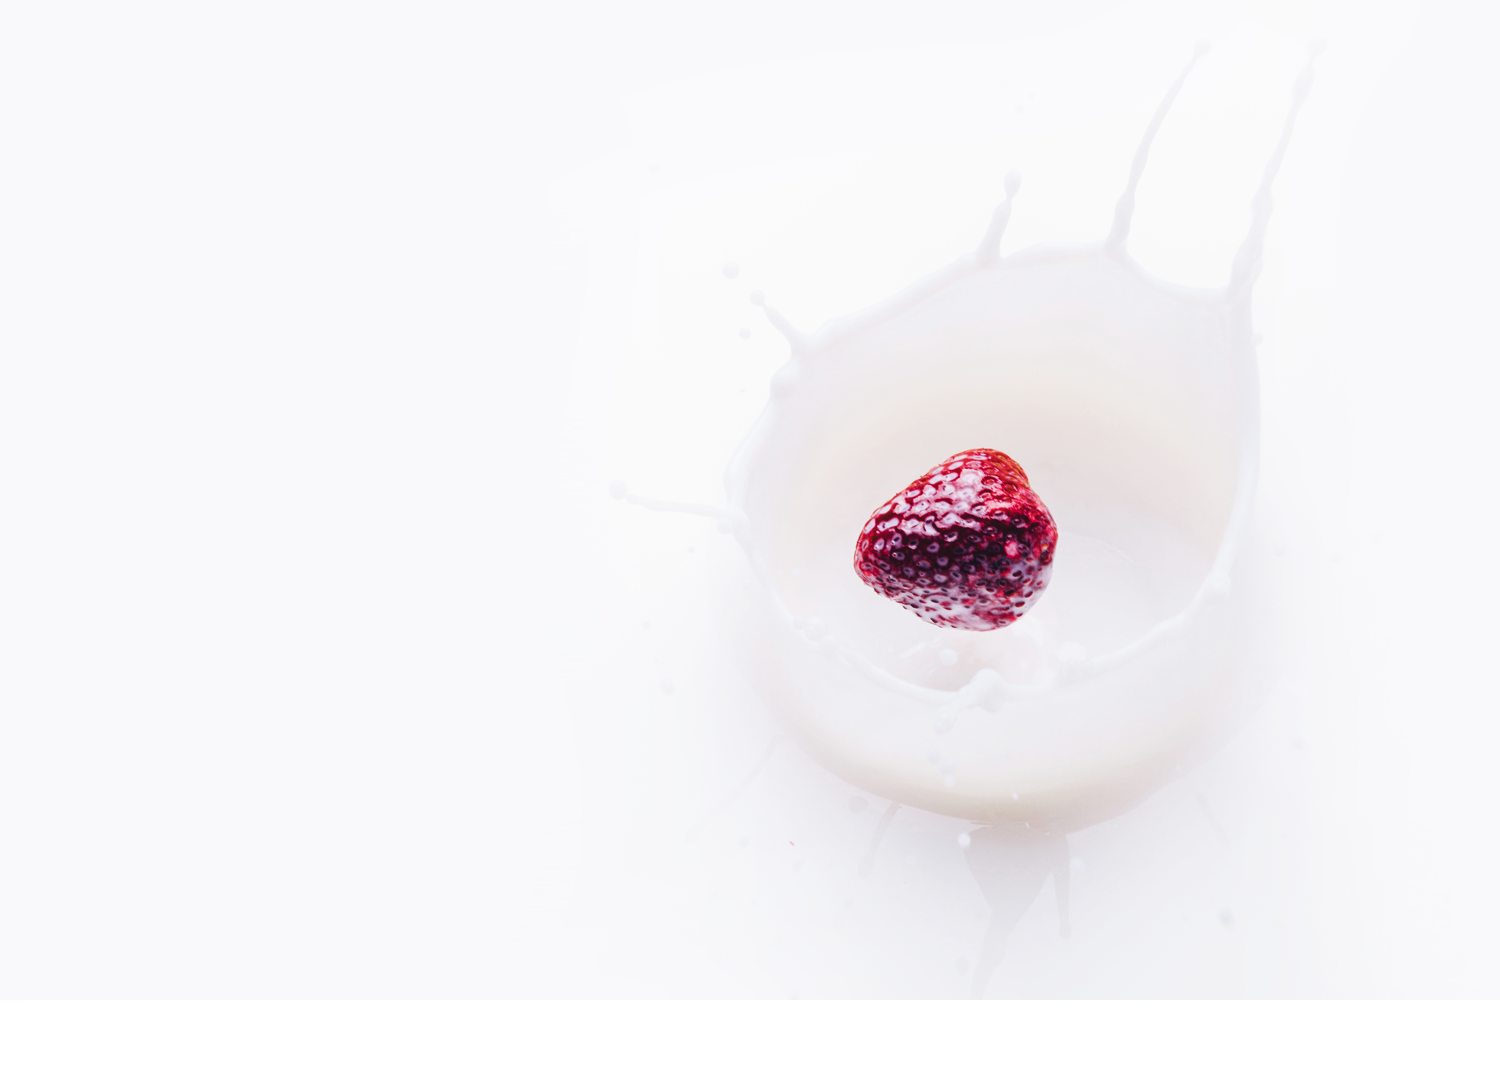
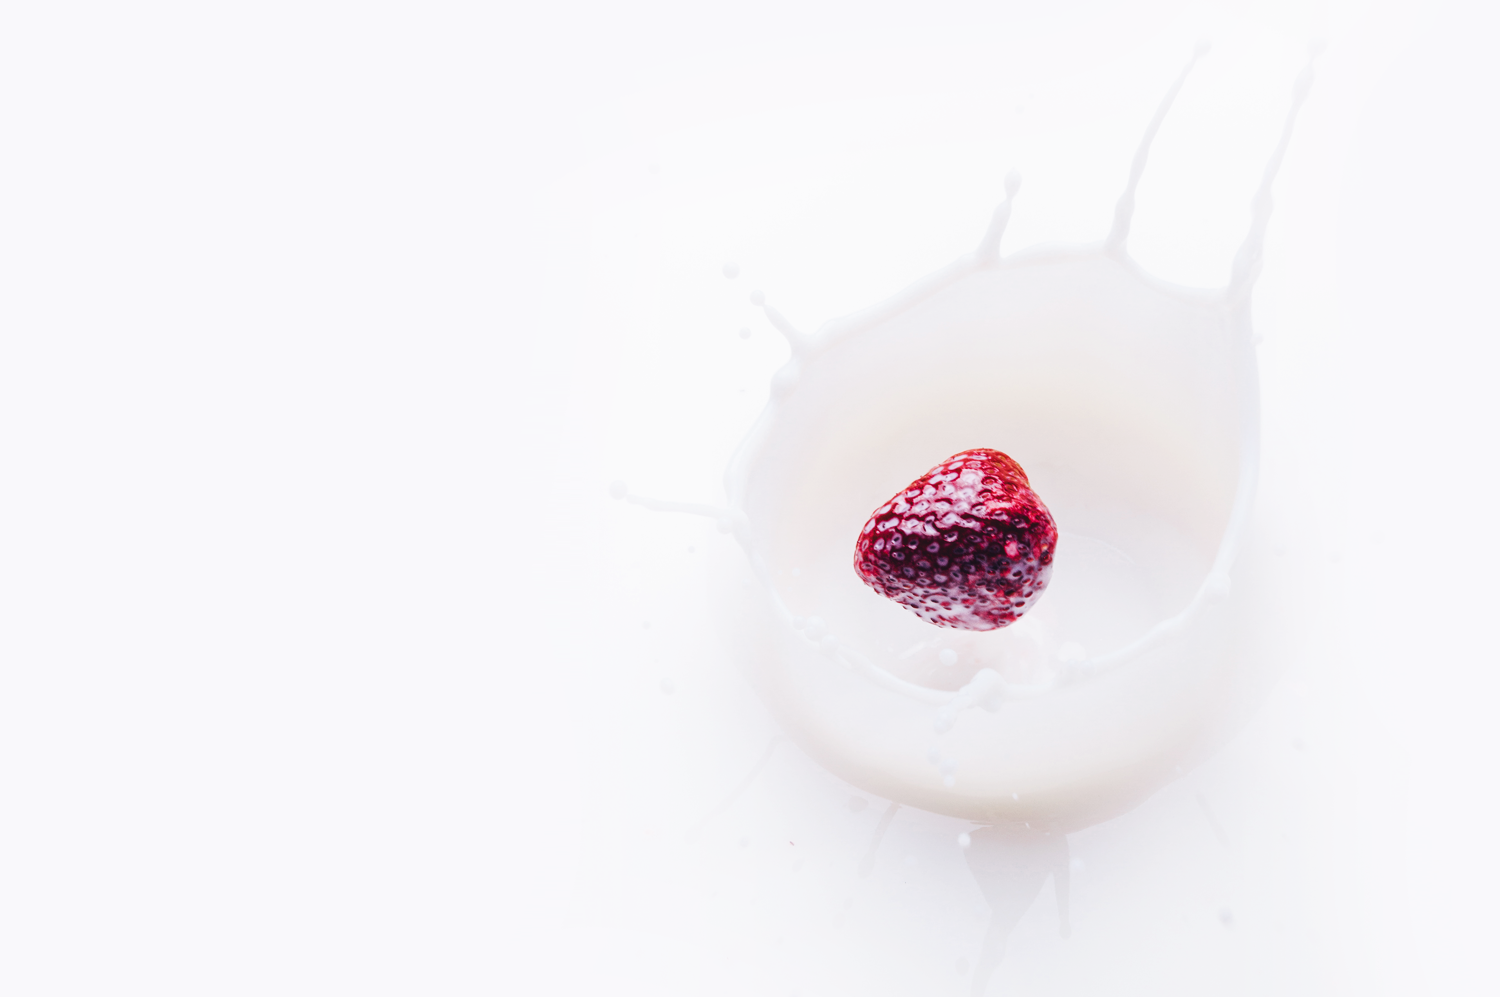
changes based on comments

Changed region(s): [[0.552, 0.4042, 0.7053, 0.653], [0.5827, 0.7151, 0.7667, 0.8706], [0.644, 0.9017, 0.6747, 0.9328]]

diff --git a/students/EugeneHryb/23_11_HomeWork/cahee/css/style.css b/students/EugeneHryb/23_11_HomeWork/cahee/css/style.css
@@ -1,2 +1,2 @@
-@font-face{font-family:"Pacifico";font-style:normal;font-weight:400;src:url("../fonts/pacifico-v17-latin-regular.woff2") format("woff2"),url("../fonts/pacifico-v17-latin-regular.woff") format("woff")}@font-face{font-family:"Raleway";font-style:normal;font-weight:300;src:url("../fonts/raleway-v18-latin-300.woff2") format("woff2"),url("../fonts/raleway-v18-latin-300.woff") format("woff")}@font-face{font-family:"Raleway";font-style:normal;font-weight:700;src:url("../fonts/raleway-v18-latin-700.woff2") format("woff2"),url("../fonts/raleway-v18-latin-700.woff") format("woff")}@font-face{font-family:"Raleway";font-style:normal;font-weight:900;src:url("../fonts/raleway-v18-latin-900.woff2") format("woff2"),url("../fonts/raleway-v18-latin-900.woff") format("woff")}.container{max-width:1500px;box-sizing:border-box;padding:22px 160px 71px 160px}.container_centr{margin:0 auto}.container_bg-img1{background-image:url("../img/1.png");background-repeat:none;background-size:cover}.container_bg-blue{background-color:#00c4c4}.header{display:flex;margin:0;padding:0;align-items:center}.header__logo{flex-grow:1}.menu{display:flex;padding:0;margin:0;justify-content:space-around;align-items:center}.menu__item{text-align:center;list-style-type:none;font-family:"Raleway";font-size:16px;font-weight:700;padding:0 15px;color:#262626;text-transform:uppercase;position:relative;margin:0}.menu__item:hover:before{content:"";border-top:solid 3px #ff6033;position:absolute;width:calc(100% - 30px);top:0;left:15px}.menu__link{padding:9px 0;display:block;text-decoration:none}.logo__link{text-decoration:none}.logo_title{font-family:"Pacifico";font-weight:400;font-size:50px;color:#262626;margin:0;padding:0}.miniArticle{font-family:"Raleway",Arial,Helvetica,sans-serif;font-weight:300;font-size:17px;line-height:1.588235;padding:0;margin:0;display:flex;align-items:center}.miniArticle__title-heavy{padding:0;font-family:"Raleway",Arial,Helvetica,sans-serif;font-weight:900;font-size:60px;margin:0 0 5px 0}.miniArticle__title-bold{padding:0;font-family:"Raleway",Arial,Helvetica,sans-serif;font-weight:700;font-size:90px;margin:0 0 5px 0}.miniArticle__text{margin:0 0 31px 0}.miniArticle__img{flex-grow:1}.miniArticle_color-black{color:#262626}.miniArticle_color-white{color:white}.miniArticle_high{min-height:770px}.miniArticle_high-flex{padding-top:15px}.miniArticle_small{max-width:370px}.miniArticle_normal{max-width:500px}.miniArticle_right{justify-content:flex-end}.button{height:55px;width:200px;border-color:transparent;box-shadow:0 0 10px 10px;transition:transform 0.3s ease}.button:hover{transform:scale(1.02)}.button:active{transform:scale(0.97)}.button:active,.button:focus{outline:none}.button__text{font-family:"Raleway",Arial,Helvetica,sans-serif;font-size:20px;font-weight:300;text-align:center;text-transform:uppercase}.button_orange{background-color:#ff6033;color:white}.icon{display:flex}.icon_small{height:40px}.icon_centr{justify-content:center}
+@font-face{font-family:"Pacifico";font-style:normal;font-weight:400;src:url("../fonts/pacifico-v17-latin-regular.woff2") format("woff2"),url("../fonts/pacifico-v17-latin-regular.woff") format("woff")}@font-face{font-family:"Raleway";font-style:normal;font-weight:300;src:url("../fonts/raleway-v18-latin-300.woff2") format("woff2"),url("../fonts/raleway-v18-latin-300.woff") format("woff")}@font-face{font-family:"Raleway";font-style:normal;font-weight:700;src:url("../fonts/raleway-v18-latin-700.woff2") format("woff2"),url("../fonts/raleway-v18-latin-700.woff") format("woff")}@font-face{font-family:"Raleway";font-style:normal;font-weight:900;src:url("../fonts/raleway-v18-latin-900.woff2") format("woff2"),url("../fonts/raleway-v18-latin-900.woff") format("woff")}.container{max-width:1500px;box-sizing:border-box;padding:22px 160px 71px 160px}.container_centr{margin:0 auto}.container_bg-img1{background-image:url("../img/1.png");background-repeat:none;background-position:center;background-size:cover}.container_bg-blue{background-color:#00c4c4}.container_first_content{margin:-120px auto 0 auto;padding-top:142px;height:100vh;max-height:1400px;z-index:1}.container_first_content .container__content{height:100%}.container__heder{padding-bottom:0;height:120px}.container__content{display:flex;align-items:center}.container_conten-right{justify-content:flex-end}.container_bottom-fix{position:absolute;bottom:10px;left:50%;transform:translateX(-50%)}.header{display:flex;margin:0;padding:0;align-items:center;z-index:10}.header__logo{flex-grow:1}.menu{display:flex;padding:0;margin:0;justify-content:space-around;align-items:center}.menu__item{text-align:center;list-style-type:none;font-family:"Raleway",Arial,Helvetica,sans-serif;font-size:16px;font-weight:700;padding:0 15px;color:#262626;text-transform:uppercase;position:relative;margin:0}.menu__item:hover:before{content:"";border-top:solid 3px #ff6033;position:absolute;width:calc(100% - 30px);top:0;left:15px}.menu__link{padding:9px 0;display:block;text-decoration:none}.logo__link{text-decoration:none}.logo_title{font-family:"Pacifico",Arial,Helvetica,sans-serif;font-weight:400;font-size:50px;color:#262626;margin:0;padding:0}.miniArticle{font-family:"Raleway",Arial,Helvetica,sans-serif;font-weight:300;font-size:17px;line-height:1.588235;padding:0;margin:0}.miniArticle__title-heavy{padding:0;font-family:"Raleway",Arial,Helvetica,sans-serif;font-weight:900;font-size:60px;margin:0 0 5px 0}.miniArticle__title-bold{padding:0;font-family:"Raleway",Arial,Helvetica,sans-serif;font-weight:700;font-size:90px;margin:0 0 5px 0}.miniArticle__text{margin:0 0 31px 0}.miniArticle__img{flex-grow:1}.miniArticle_color-black{color:#262626}.miniArticle_color-white{color:white}.miniArticle_high{min-height:770px}.miniArticle_high-flex{padding-top:15px}.miniArticle_small{max-width:370px}.miniArticle_normal{max-width:500px}.button{height:55px;width:200px;border-color:transparent;box-shadow:-2px 7px 24px -5px;transition:transform 0.3s ease;position:relative}.button:hover{transform:scale(1.02)}.button:active{transform:scale(0.97)}.button:active,.button:focus{outline:none}.button__text{font-family:"Raleway",Arial,Helvetica,sans-serif;font-size:20px;font-weight:300;text-align:center;text-transform:uppercase}.button__link{text-decoration:none;height:100%;width:100%}.button_orange{background-color:#ff6033}.button_orange .button__text{color:white}.button_content-center{display:flex;justify-content:center;align-items:center}.icon{display:flex}.icon_small{height:40px}.icon_centr{justify-content:center}
 /*# sourceMappingURL=style.css.map */

diff --git a/students/EugeneHryb/23_11_HomeWork/cahee/cahee.html b/students/EugeneHryb/23_11_HomeWork/cahee/cahee.html
@@ -7,7 +7,7 @@
     <title>Cahee</title>
 </head>
 <body>
-    <div class="container container_centr container_bg-img1">
+    <div class="container container_centr container__heder">
         <header class="header">
             <div class="logo header__logo">
                 <a href="#" class="logo__link">
@@ -35,26 +35,30 @@
                 </li>
             </ul>
         </header>
-        <section class="miniArticle miniArticle_left miniArticle_high">
-            <div class="miniArticle__wrapp miniArticle_small">
+    </div>
+    <div class="container container_bg-img1 container_first_content">
+        <div class="container__content container_content-left">
+            <section class="miniArticle miniArticle_small">
                 <h2 class="miniArticle__title-heavy miniArticle_color-black">Fresh Life</h2>
                 <p class="miniArticle__text miniArticle_color-black">Sed do eiusmod tempor incididunt ut labore et dolore magna aliqua. Ut enim ad minim veniam, quis nostrud exercitation ullamco.</p>
-                <button class="button button_orange" name="getFreeNow" value="true">
-                    <span class="button__text">Get free now</span>
-                </button>
-            </div>
-        </section>
-        <div class="icon icon_centr">
-            <img src="./img/scroll.png" alt="Scroll" class="icon__img icon_small">
+                <div class="button button_orange ">
+                    <a href="#" class="button__link button_content-center">
+                        <span class="button__text ">Get free now</span>
+                    </a>
+                </div>
+            </section>
+        </div>
+        <div class="icon icon_centr container_bottom-fix">
+            <a class="icon__link" href="#about_us"><img src="./img/scroll.png" alt="Scroll" class="icon__img icon_small"></a>
         </div>
     </div>
     <div class="container container_centr container_bg-blue">
-        <section class="miniArticle miniArticle_right miniArticle_high-flex">
+        <section class="container__content container_conten-right miniArticle_high-flex">
             <div class="miniArticle__img">
-                <img src="./img/img.png" alt="img" >
+                <img src="./img/img.png" alt="About Us" >
             </div>
-            <div class="miniArticle__wrapp miniArticle_normal ">
-                <h2 class="miniArticle__title-bold miniArticle_color-white">About Us</h2>
+            <div class="miniArticle miniArticle_normal ">
+                <h2 class="miniArticle__title-bold miniArticle_color-white" id="about_us">About Us</h2>
                 <p class="miniArticle__text miniArticle_color-white">Abore Cahee magna aliqua. Ut enim ad minim veniam, quis nostrud exercitation ullamco laboris nisi ut aliquip ex ea commodo consequat. Duis aute irure dolor in reprehenderit in voluptate velit esse cillum.</p>
                 <p class="miniArticle__text miniArticle_color-white">Nim id est laborum. Sed ut perspiciatis unde omnis iste natus error sit voluptatem accusantium doloremque laudantium, totam rem aperiam, eaque ipsa quae ab illo inventore.</p>
             </div>

diff --git a/students/EugeneHryb/23_11_HomeWork/cahee/crs/_miniArticle.scss b/students/EugeneHryb/23_11_HomeWork/cahee/crs/_miniArticle.scss
@@ -1,51 +1,56 @@
-.miniArticle{
+.miniArticle {
     font-family: $defaultFont;
     font-weight: 300;
     font-size: 17px;
     line-height: 1.588235;
     padding: 0;
     margin: 0;
-    display: flex;
-    align-items: center;
-    &__title-heavy{
+
+    &__title-heavy {
         padding: 0;
         font-family: $defaultFont;
         font-weight: 900;
         font-size: 60px;
         margin: 0 0 5px 0;
     }
-    &__title-bold{
+
+    &__title-bold {
         padding: 0;
         font-family: $defaultFont;
         font-weight: 700;
         font-size: 90px;
         margin: 0 0 5px 0;
     }
-    &__text{
+
+    &__text {
         margin: 0 0 31px 0;
     }
-    &__img{
+
+    &__img {
         flex-grow: 1;
     }
-    &_color-black{
+
+    &_color-black {
         color: $colorTextBlack;
     }
-    &_color-white{
+
+    &_color-white {
         color: $colorTextWhite;
     }
-    &_high{
+
+    &_high {
         min-height: 770px;
     }
-    &_high-flex{
+
+    &_high-flex {
         padding-top: 15px;
     }
-    &_small{
+
+    &_small {
         max-width: 370px;
     }
-    &_normal{
+
+    &_normal {
         max-width: 500px;
-    }
-    &_right{
-        justify-content: flex-end;
     }
 }

diff --git a/students/EugeneHryb/23_11_HomeWork/cahee/crs/_container.scss b/students/EugeneHryb/23_11_HomeWork/cahee/crs/_container.scss
@@ -1,16 +1,50 @@
-.container{
+.container {
     max-width: 1500px;
     box-sizing: border-box;
     padding: 22px 160px 71px 160px;
-    &_centr{
+
+    &_centr {
         margin: 0 auto;
     }
-    &_bg-img1{
-        background-image: url('../img/1.png');
-        background-repeat: none;
-        background-size: cover;
+
+    &_bg-img1 {
+        @include bgCover('../img/1.png');
     }
-    &_bg-blue{
+
+    &_bg-blue {
         background-color: $colorBgBlue;
+    }
+
+    &_first_content {
+        margin: -120px auto 0 auto;
+        padding-top: 22px+120px;
+        height: 100vh;
+        max-height: 1400px;
+        z-index: 1;
+    }
+
+    &_first_content &__content {
+        height: 100%;
+    }
+
+    &__heder {
+        padding-bottom: 0;
+        height: 120px;
+    }
+
+    &__content {
+        display: flex;
+        align-items: center;
+    }
+
+    &_conten-right {
+        justify-content: flex-end;
+    }
+
+    &_bottom-fix {
+        position: absolute;
+        bottom: 10px;
+        left: 50%;
+        transform: translateX(-50%);
     }
 }

diff --git a/students/EugeneHryb/23_11_HomeWork/cahee/crs/_button.scss b/students/EugeneHryb/23_11_HomeWork/cahee/crs/_button.scss
@@ -1,27 +1,49 @@
-.button{
+.button {
     height: 55px;
     width: 200px;
     border-color: transparent;
-    box-shadow: 0 0 10px  10px ;
+    box-shadow: -2px 7px 24px -5px;
     transition: transform .3s ease;
-    &:hover{
+    position: relative;
+
+    &:hover {
         transform: scale(1.02);
     }
-    &:active{
+
+    &:active {
         transform: scale(0.97);
     }
-    &:active, &:focus{
+
+    &:active,
+    &:focus {
         outline: none;
     }
-    &__text{
+
+    &__text {
         font-family: $defaultFont;
         font-size: 20px;
         font-weight: 300;
         text-align: center;
         text-transform: uppercase;
     }
-    &_orange{
+
+    &__link {
+        text-decoration: none;
+        height: 100%;
+        width: 100%;
+    }
+
+    &_orange {
         background-color: $colorButtomOrange;
+    }
+
+    &_orange &__text {
         color: $colorButtomOrangeText;
+    }
+
+    &_content-center {
+        display: flex;
+        justify-content: center;
+        align-items: center;
     }
 }

diff --git a/students/EugeneHryb/23_11_HomeWork/cahee/crs/_menu.scss b/students/EugeneHryb/23_11_HomeWork/cahee/crs/_menu.scss
@@ -1,13 +1,14 @@
-.menu{
+.menu {
     display: flex;
     padding: 0;
     margin: 0;
     justify-content: space-around;
     align-items: center;
-    &__item{
+
+    &__item {
         text-align: center;
         list-style-type: none;
-        font-family: 'Raleway';
+        font-family: $defaultFont;
         font-size: 16px;
         font-weight: 700;
         padding: 0 15px;
@@ -15,16 +16,18 @@
         text-transform: uppercase;
         position: relative;
         margin: 0;
-        &:hover::before{
+
+        &:hover::before {
             content: '';
-            border-top: solid 3px $colorMenuHover ;
+            border-top: solid 3px $colorMenuHover;
             position: absolute;
             width: calc(100% - 30px);
             top: 0;
             left: 15px;
         }
     }
-    &__link{
+
+    &__link {
         padding: 9px 0;
         display: block;
         text-decoration: none;

diff --git a/students/EugeneHryb/23_11_HomeWork/cahee/crs/_fonts.scss b/students/EugeneHryb/23_11_HomeWork/cahee/crs/_fonts.scss
@@ -1,7 +1,7 @@
-@include fontFace('Pacifico', '../fonts/pacifico-v17-latin-regular', normal , 400);
+@include fontFace('Pacifico', '../fonts/pacifico-v17-latin-regular', normal, 400);
 
-@include fontFace('Raleway', '../fonts/raleway-v18-latin-300', normal , 300);
+@include fontFace('Raleway', '../fonts/raleway-v18-latin-300', normal, 300);
 
-@include fontFace('Raleway', '../fonts/raleway-v18-latin-700', normal , 700);
+@include fontFace('Raleway', '../fonts/raleway-v18-latin-700', normal, 700);
 
-@include fontFace('Raleway', '../fonts/raleway-v18-latin-900', normal , 900);
+@include fontFace('Raleway', '../fonts/raleway-v18-latin-900', normal, 900);

diff --git a/students/EugeneHryb/23_11_HomeWork/cahee/crs/_vars.scss b/students/EugeneHryb/23_11_HomeWork/cahee/crs/_vars.scss
@@ -4,11 +4,13 @@ $secondFont: 'Pacifico';
 
 $follbak: Arial, Helvetica, sans-serif;
 
-$defaultFont: $firstFont, $follbak;
-$logoFont: $secondFont, $follbak;
+$defaultFont: $firstFont,
+$follbak;
+$logoFont: $secondFont,
+$follbak;
 
 $mineShaft: #262626;
-$outrageousOrang: #ff6033 ;
+$outrageousOrang: #ff6033;
 $white: white;
 $blue: #00c4c4;
 

diff --git a/students/EugeneHryb/23_11_HomeWork/cahee/crs/_mixin.scss b/students/EugeneHryb/23_11_HomeWork/cahee/crs/_mixin.scss
@@ -13,7 +13,7 @@
     background-size: cover;
 }
 
-@mixin fontFace($fontFamily , $fontPath, $fontStyle: normal, $fontWeight: normal) {
+@mixin fontFace($fontFamily, $fontPath, $fontStyle: normal, $fontWeight: normal) {
     @font-face {
         font-family: $fontFamily;
         font-style: $fontStyle;

diff --git a/students/EugeneHryb/23_11_HomeWork/cahee/crs/_logo.scss b/students/EugeneHryb/23_11_HomeWork/cahee/crs/_logo.scss
@@ -1,9 +1,10 @@
 .logo {
-    &__link{
+    &__link {
         text-decoration: none;
     }
-    &_title{
-        font-family: 'Pacifico';
+
+    &_title {
+        font-family: $logoFont;
         font-weight: 400;
         font-size: 50px;
         color: $colorHeadertext;

diff --git a/students/EugeneHryb/23_11_HomeWork/cahee/crs/_header.scss b/students/EugeneHryb/23_11_HomeWork/cahee/crs/_header.scss
@@ -1,9 +1,11 @@
-.header{
+.header {
     display: flex;
     margin: 0;
     padding: 0;
     align-items: center;
-    &__logo{
+    z-index: 10;
+
+    &__logo {
         flex-grow: 1;
     }
 }

diff --git a/students/EugeneHryb/23_11_HomeWork/cahee/crs/_icon.scss b/students/EugeneHryb/23_11_HomeWork/cahee/crs/_icon.scss
@@ -1,9 +1,11 @@
-.icon{
+.icon {
     display: flex;
+
     &_small {
         height: 40px;
     }
-    &_centr{
+
+    &_centr {
         justify-content: center;
     }
 }
